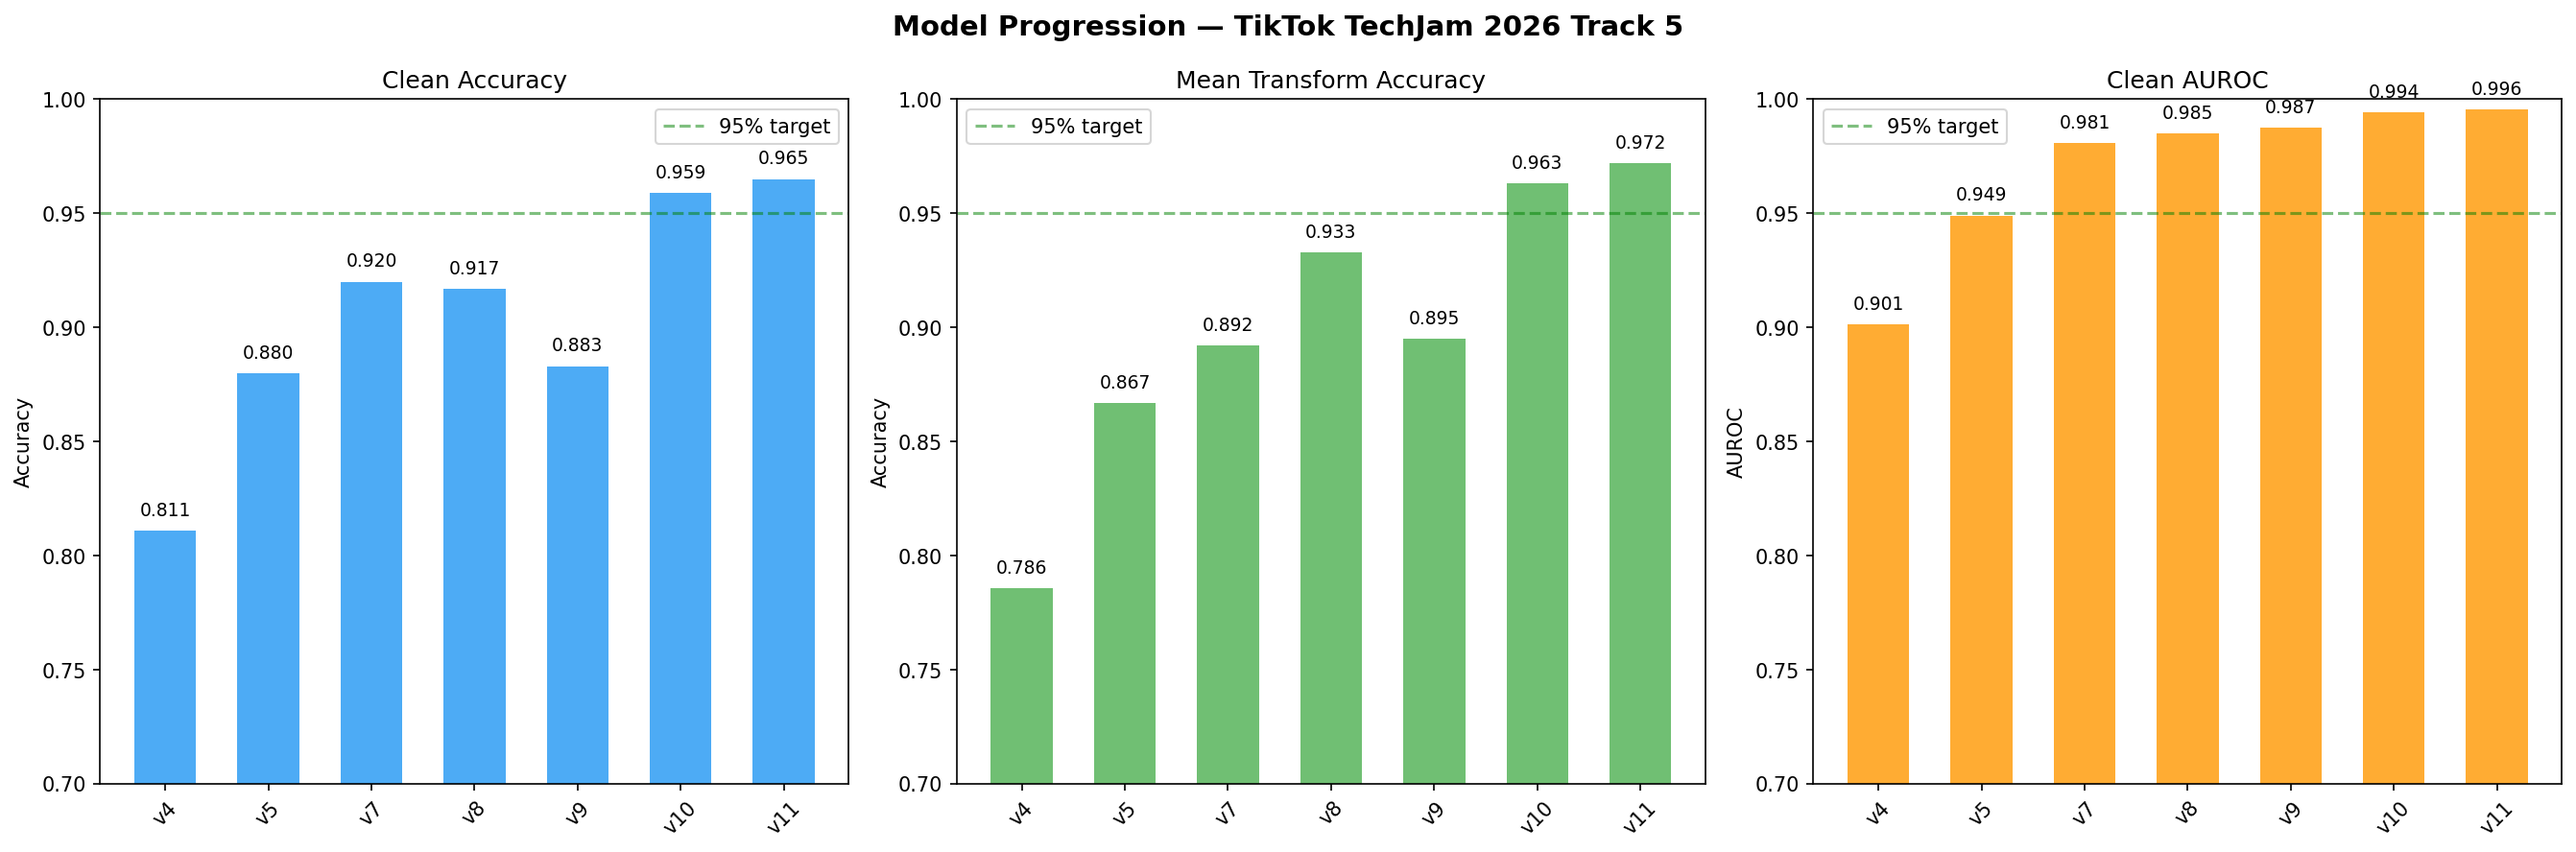
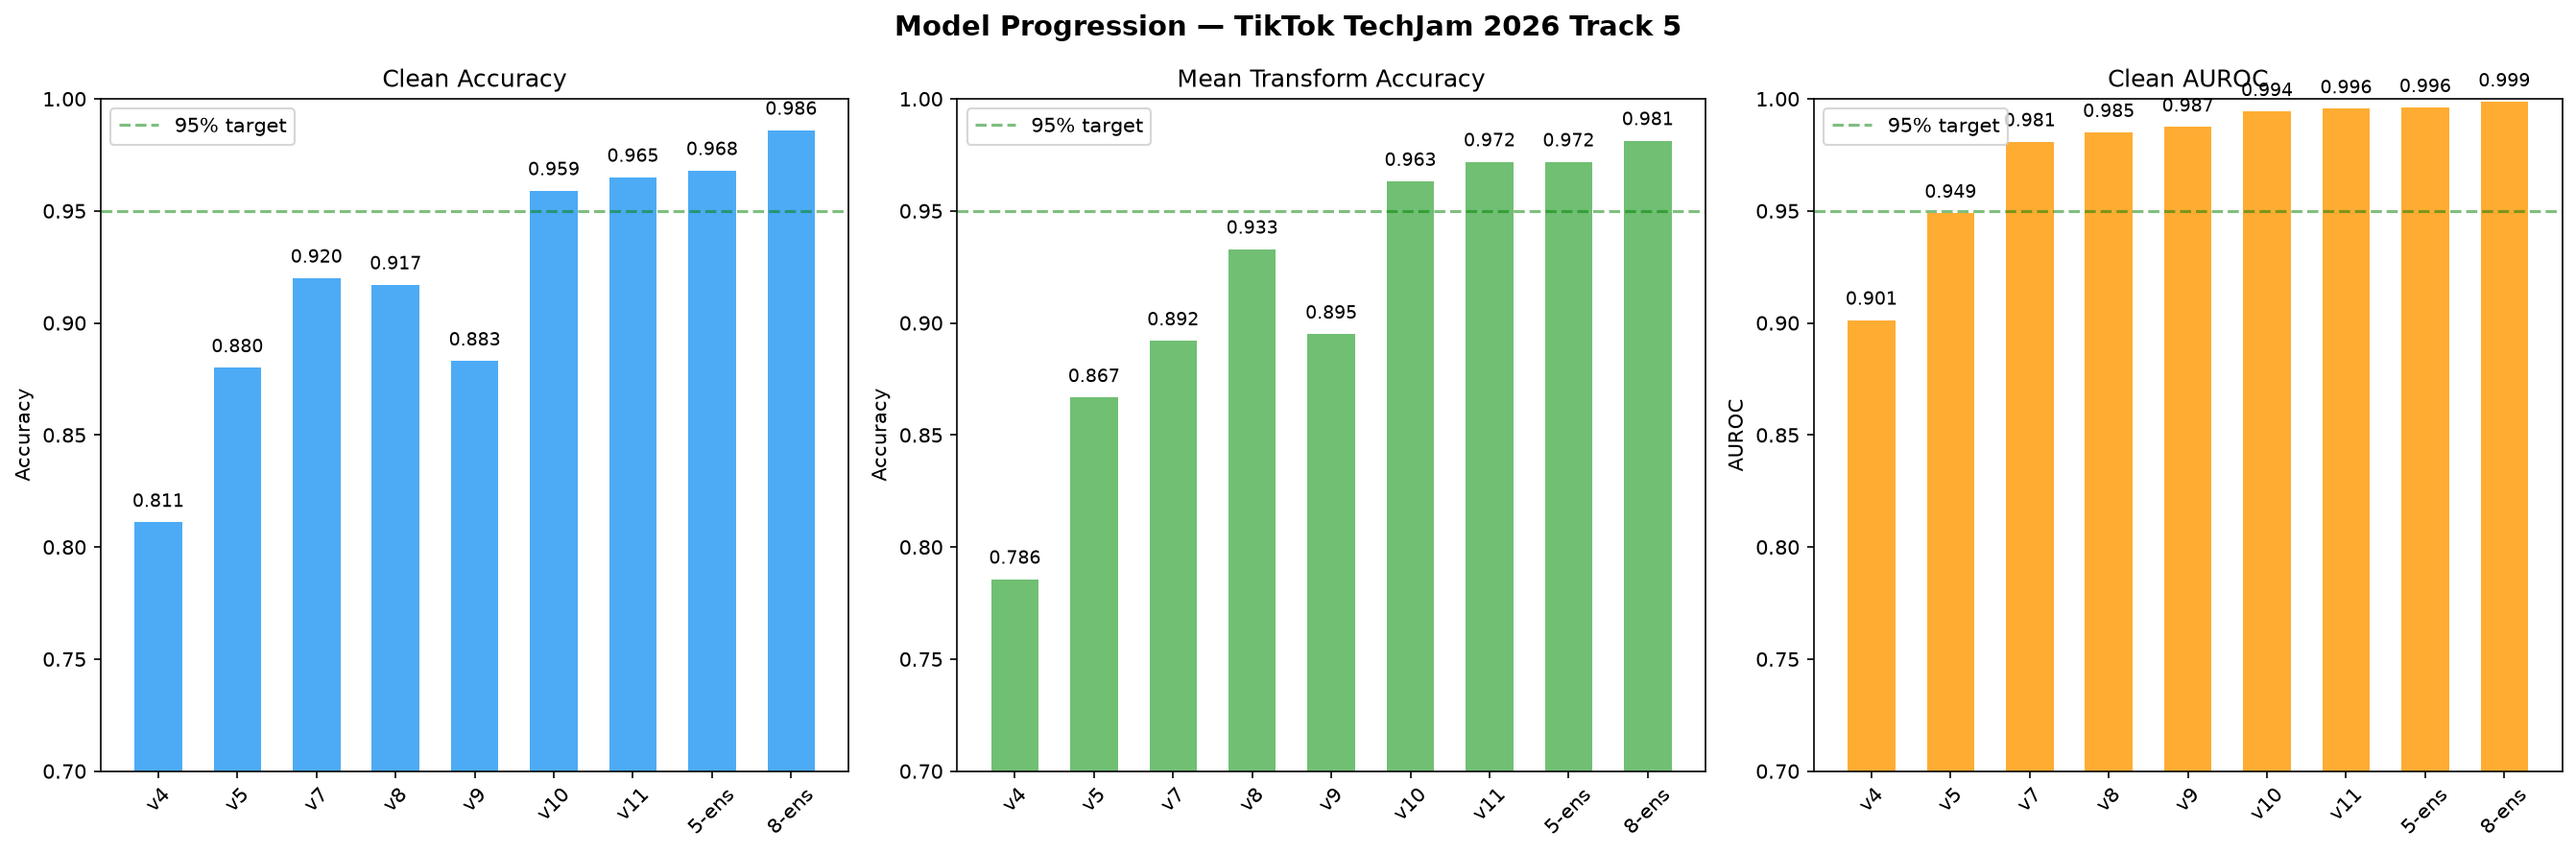
Add demo video reference to README, update progression graph with ensembles

diff --git a/utils/make_progression_graph.py b/utils/make_progression_graph.py
@@ -19,6 +19,8 @@ VERSIONS = [
     ("v9", "dalle3_v9_strat_w15_nonoise", "Stratified aug"),
     ("v10", "dalle3_v10_combo5_w35_nonoise", "Combo5 + w3.5"),
     ("v11", "dalle3_v11_all_w45_nonoise", "All features + w4.5"),
+    ("5-ens", "dalle3_ensemble", "5-member ensemble"),
+    ("8-ens", "dalle3_ensemble_8m", "8-member ensemble"),
 ]
 
 

diff --git a/README.md b/README.md
@@ -90,6 +90,10 @@ python scan_image.py path/to/image.jpg
 python telegram_bot.py
 ```
 
+### Demo Video
+
+See `docs/DEMO_VIDEO_SCRIPT.md` for the full demo video script with scene-by-scene breakdown.
+
 ## Project Structure
 
 ```
